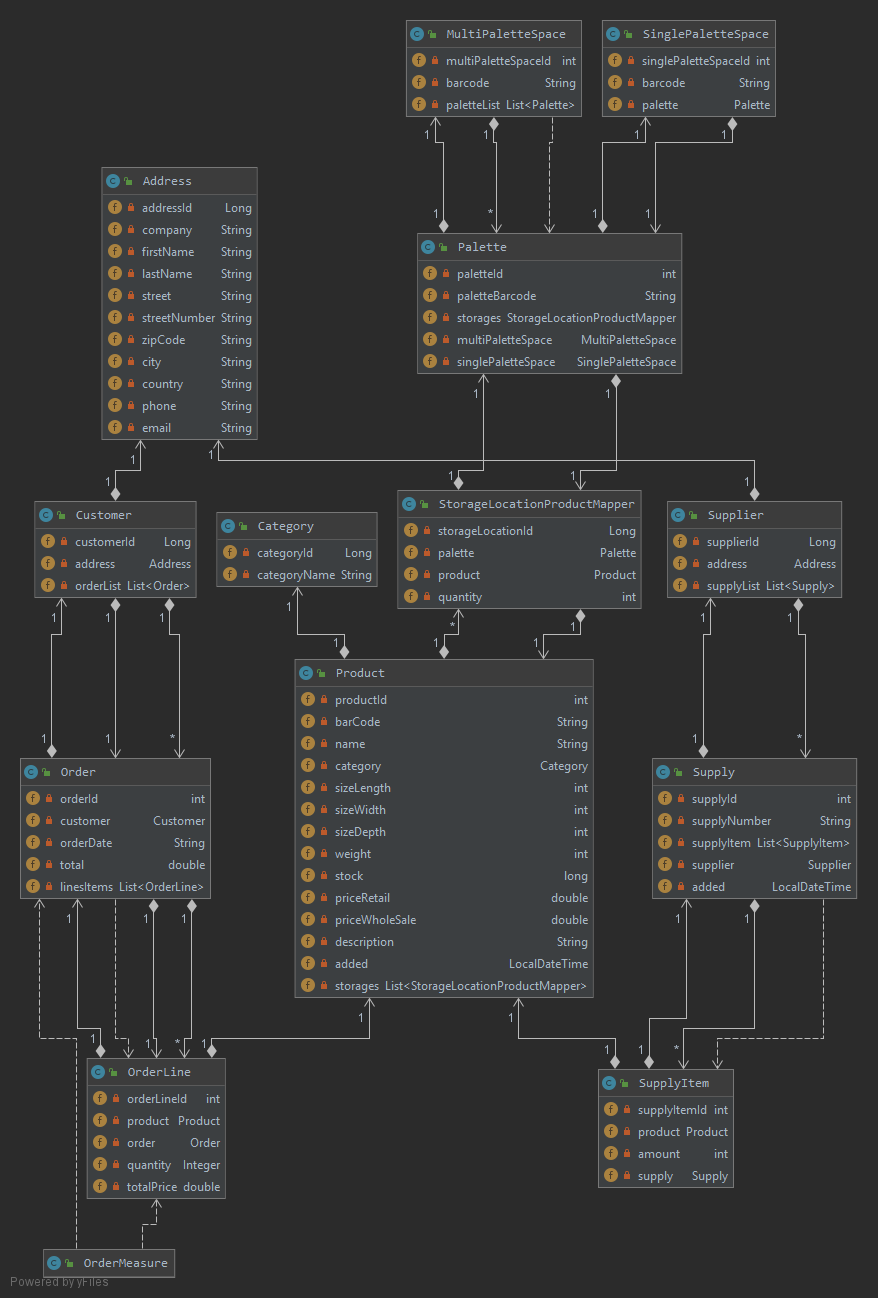
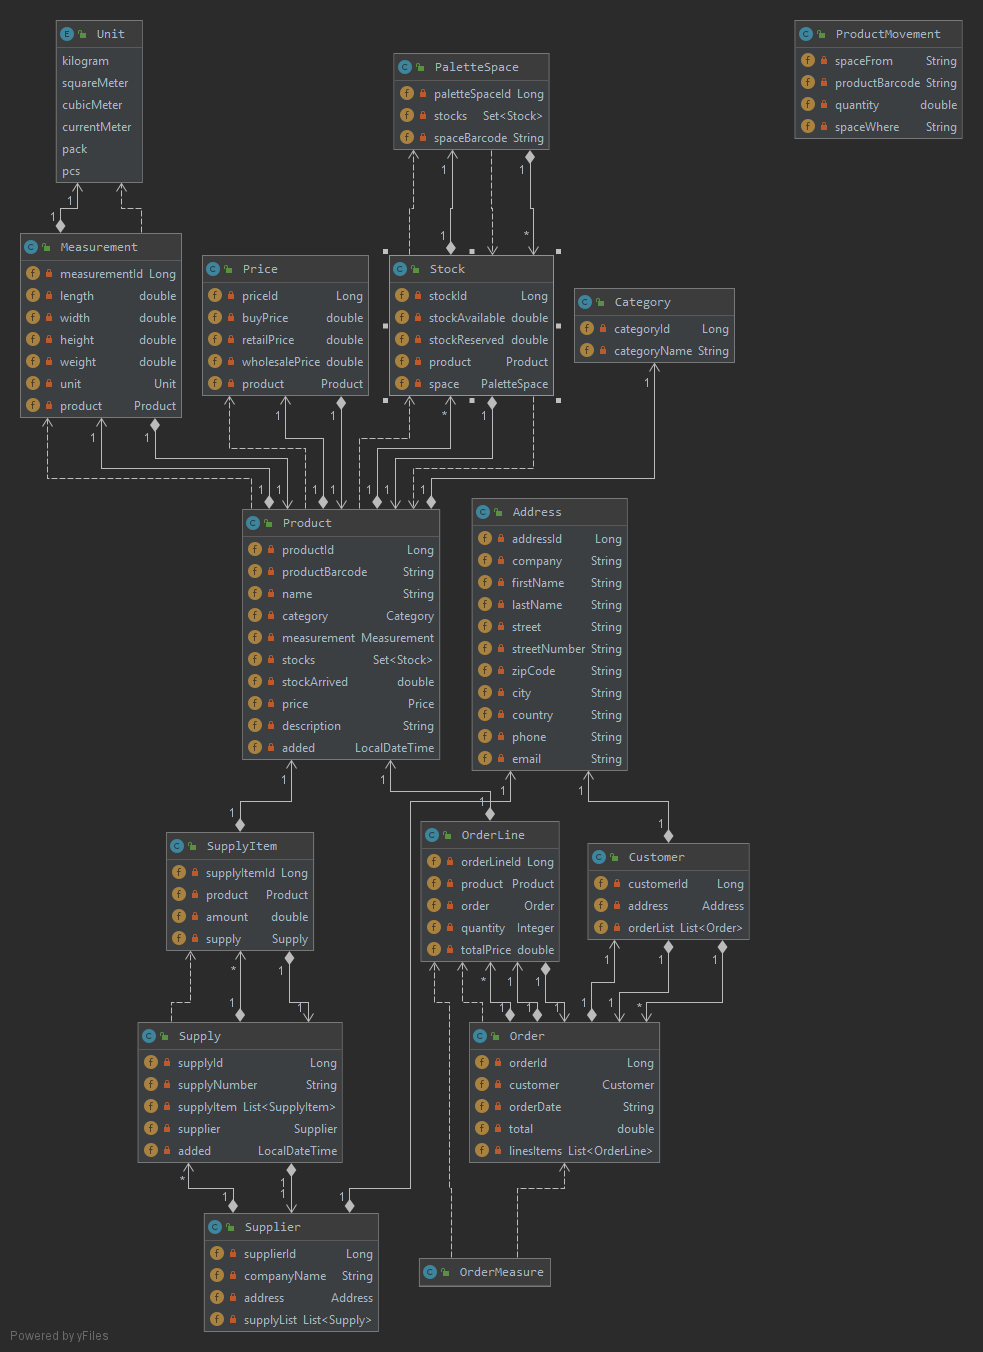
Improved stock performance, added convenience methods.

diff --git a/src/main/java/com/dawidp/warehousemanagementsystem/controller/MoveController.java b/src/main/java/com/dawidp/warehousemanagementsystem/controller/MoveController.java
@@ -10,6 +10,8 @@ import com.dawidp.warehousemanagementsystem.service.StockService;
 import org.springframework.beans.factory.annotation.Autowired;
 import org.springframework.web.bind.annotation.*;
 
+import java.util.Objects;
+
 @RestController
 @RequestMapping("/api/move")
 public class MoveController {
@@ -22,19 +24,28 @@ public class MoveController {
     private PaletteSpaceService spaceService;
 
     @PostMapping("/unitMove")
-    public String moveOneProduct(@RequestBody ProductMovement productMovement){
-        Stock stock = stockService.getStock(productMovement.getSpaceFrom(), productMovement.getProductBarcode());
-        if(productMovement.getQuantity()<=stock.getStockAvailable()){
-            stock.setStockAvailable(stock.getStockAvailable()-productMovement.getQuantity());
-            Product product = productService.getProductByCode(productMovement.getProductBarcode());
-            PaletteSpace spaceWhere = spaceService.getPaletteSpaceByBarcode(productMovement.getSpaceWhere());
-            Stock newStock = new Stock(productMovement.getQuantity(), product, spaceWhere);
-            if(stock.getStockAvailable() == 0){
-                stockService.deleteStockById(stock.getStockId());
+    public String moveOneProduct(@RequestBody ProductMovement movement){
+        Stock stockFrom = stockService.getStock(movement.getSpaceFrom(), movement.getProductBarcode());
+        if(movement.getQuantity()<=stockFrom.getStockAvailable()){
+            stockFrom.decreaseQuantity(movement.getQuantity());
+            Product product = productService.getProductByCode(movement.getProductBarcode());
+            PaletteSpace spaceWhere = spaceService.getPaletteSpaceByBarcode(movement.getSpaceWhere());
+            Stock stockIfExist = stockService.getStock(spaceWhere.getSpaceBarcode(), product.getProductBarcode());
+            if(stockFrom.getStockAvailable() == 0){
+                stockService.deleteStockById(stockFrom.getStockId());
             }
-            else stockService.save(stock);
-            stockService.save(newStock);
-            return "Product with quantity " + productMovement.getQuantity() + " has been moved to " + productMovement.getSpaceWhere();
+            else{
+                stockService.save(stockFrom);
+            }
+            if(Objects.nonNull(stockIfExist)){
+                stockIfExist.increaseQuantity(movement.getQuantity());
+                stockService.save(stockIfExist);
+            }
+            else{
+                Stock newStock = new Stock(movement.getQuantity(), product, spaceWhere);
+                stockService.save(newStock);
+            }
+            return "Product with quantity " + movement.getQuantity() + " has been moved to " + movement.getSpaceWhere();
         }
         else return "There are no such quantity";
 

diff --git a/src/main/java/com/dawidp/warehousemanagementsystem/model/Stock.java b/src/main/java/com/dawidp/warehousemanagementsystem/model/Stock.java
@@ -41,4 +41,12 @@ public class Stock implements Serializable {
         product.addStock(this);
         space.addStock(this);
     }
+
+    public void decreaseQuantity(Double quantity){
+        this.setStockAvailable(this.getStockAvailable() - quantity);
+    }
+
+    public void increaseQuantity(Double quantity){
+        this.setStockAvailable(this.getStockAvailable() + quantity);
+    }
 }

diff --git a/src/main/java/com/dawidp/warehousemanagementsystem/controller/SupplyController.java b/src/main/java/com/dawidp/warehousemanagementsystem/controller/SupplyController.java
@@ -104,7 +104,7 @@ public class SupplyController{
             product.decreaseStockArrived(quantity);
             productService.save(product);
             return "Successfully moved to: " + localization;
-        }else return "There is no such products";
+        }else return "There is no such quantity";
     }
 
 }

diff --git a/src/main/java/com/dawidp/warehousemanagementsystem/dao/StockRepository.java b/src/main/java/com/dawidp/warehousemanagementsystem/dao/StockRepository.java
@@ -7,6 +7,7 @@ import org.springframework.data.jpa.repository.Query;
 import org.springframework.data.repository.query.Param;
 import org.springframework.stereotype.Repository;
 
+import javax.persistence.NamedNativeQuery;
 import java.util.List;
 
 @Repository
